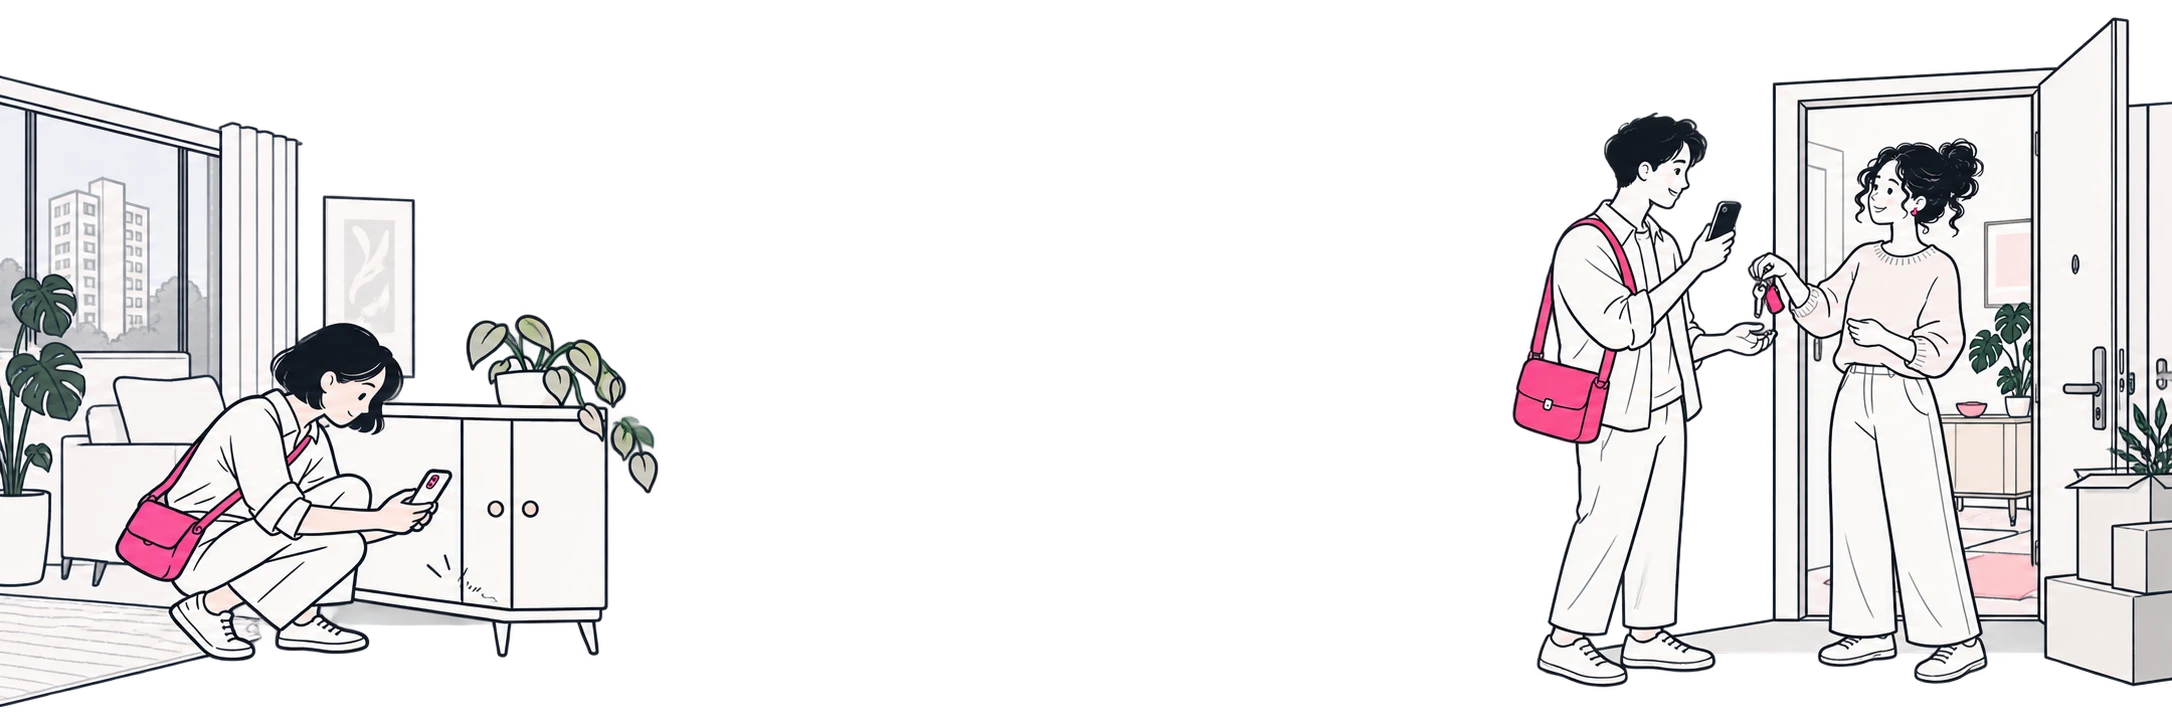
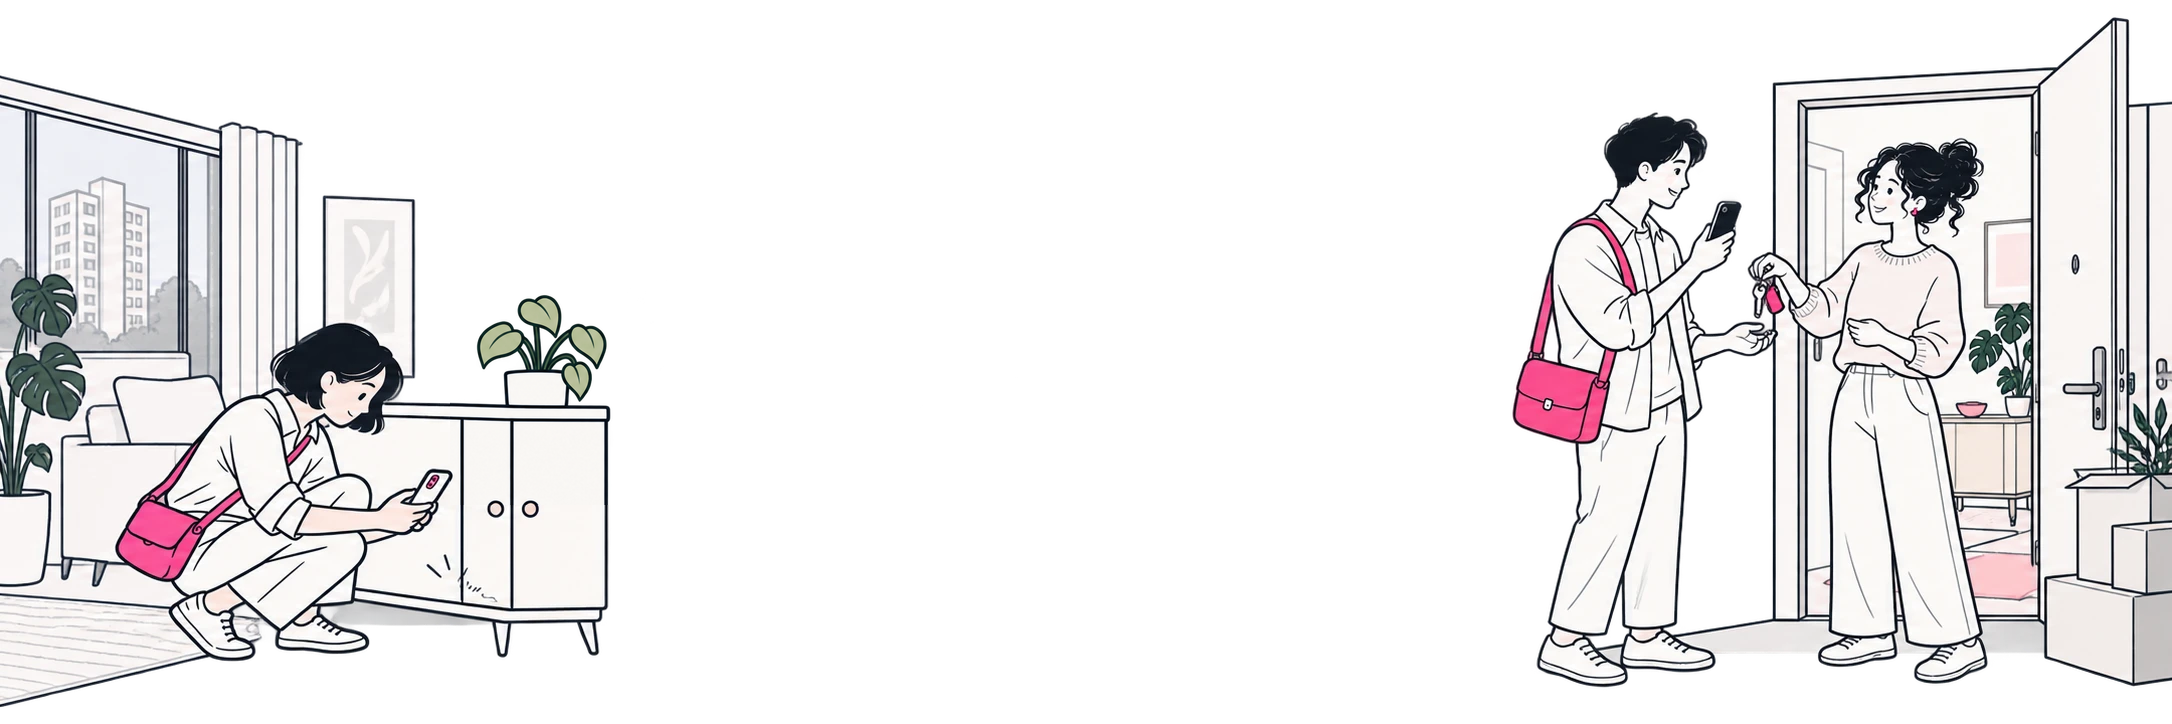
Fix hero plant and refine landing page navigation

Changed region(s): [[0.2159, 0.395, 0.3085, 0.6989]]

diff --git a/marketing/app/landing.module.css b/marketing/app/landing.module.css
@@ -1,10 +1,12 @@
 .page { --ink:#454541; --muted:#6a6a66; --pink:#db2777; --blush:#fff7fa; color:var(--ink); background:#fff; overflow:clip; }
 .page :global(*) { box-sizing:border-box; }
-.page :global(section[id]) { scroll-margin-top:32px; }
 .page :global(h1),.page :global(h2),.page :global(h3),.page :global(p) { margin:0; }
 .page :global(a) { text-decoration:none; }
 .skipLink { position:absolute; top:-80px; left:20px; padding:14px 20px; background:white; z-index:20; }
 .skipLink:focus { top:12px; }
+.stickyHeader { position:sticky; top:0; z-index:10; background:#fff; }
+.stickyHeader::after { content:""; position:absolute; left:0; right:0; bottom:0; height:1px; background:transparent; }
+.headerScrolled::after { background:#e9e5e8; }
 .header { position:relative; z-index:3; max-width:1800px; min-height:100px; padding:28px 42px; margin:auto; display:grid; grid-template-columns:1fr auto 1fr; align-items:center; gap:24px; }
 .wordmark { display:inline-flex; align-items:center; gap:10px; font-size:34px; font-weight:850; letter-spacing:-2.5px; line-height:1; color:var(--ink); }
 .brandMark { display:inline-grid; flex-shrink:0; place-items:center; width:34px; height:34px; border-radius:28%; background:#ec4899; }
@@ -102,6 +104,9 @@
 .footerTop nav { display:flex; flex-wrap:wrap; justify-content:flex-end; gap:12px 27px; align-items:flex-start; font-size:18px; padding-top:10px; }
 .footerTop nav a { padding:10px 0; }
 .footerBottom { display:flex; justify-content:space-between; gap:20px; padding-top:23px; border-top:1px solid #eee9ed; color:var(--muted); font-size:18px; line-height:1.7; }
+@media (min-width:901px) {
+  .heroActions .primaryButton { min-height:56px; padding-block:18px; }
+}
 @media (max-width:1000px) {
   .header { padding:23px 28px; } .navigation,.exploreNavigation { gap:18px; font-size:18px; } .hero { padding-top:50px; min-height:610px; }
   .exploreNavigation { display:none; } .header { display:flex; justify-content:space-between; }
@@ -115,7 +120,7 @@
   .hero { padding:30px 20px 340px; min-height:0; }
   .hero h1 { font-size:clamp(28px,8.4vw,48px); letter-spacing:-.8px; line-height:1.2; margin-top:0; }
   .heroDescription { font-size:20px; line-height:1.8; max-width:370px; margin-top:22px !important; } .desktopBreak { display:none; }
-  .heroActions { flex-direction:column; gap:6px; margin-top:24px; } .heroActions .primaryButton { padding:10px 20px; } .heroActions .textButton { min-height:42px; }
+  .heroActions { flex-direction:column; gap:6px; margin-top:24px; } .heroActions .primaryButton { padding:10px 20px; }
   .hero .freeNote { margin-top:6px !important; font-size:18px; }
   .heroArt { width:min(100%,320px); height:300px; overflow:hidden; bottom:10px; } .heroPanorama { width:100%; height:100%; object-fit:cover; object-position:left center; }
   .promiseStrip { padding:22px 16px; display:grid; grid-template-columns:1fr; gap:6px; font-size:18px; } .promiseStrip > span { padding:0; } .promiseStrip > span + span { border:0; }

diff --git a/marketing/app/page.tsx b/marketing/app/page.tsx
@@ -1,6 +1,7 @@
 import Image from 'next/image'
 import Link from 'next/link'
 import type { Metadata } from 'next'
+import { LandingHeader } from '../components/landing-header'
 import { LandingWalkthrough } from '../components/landing-walkthrough'
 import { FREE_ACTIVE_PROPERTIES } from '../../src/lib/plan-limits'
 import styles from './landing.module.css'
@@ -40,7 +41,7 @@ export default function LandingPage() {
     <div className={styles.page}>
       <script type="application/ld+json" dangerouslySetInnerHTML={{ __html: JSON.stringify(structuredData).replace(/</g, '\\u003c') }} />
       <a href="#main" className={styles.skipLink}>Skip to content</a>
-      <header className={styles.header}>
+      <LandingHeader>
         <nav className={styles.exploreNavigation} aria-label="Explore Kivilo">
           <a href="#how-it-works">How it works</a>
           <a href="#whole-tenancy">The whole tenancy</a>
@@ -51,7 +52,7 @@ export default function LandingPage() {
           <Link href="https://my.kivilo.app/login">Log in</Link>
           <Link href="https://my.kivilo.app/inspections" prefetch={false} className={styles.smallButton}>Start free</Link>
         </nav>
-      </header>
+      </LandingHeader>
       <main id="main">
         <section className={styles.hero} aria-labelledby="hero-title">
           <div className={styles.heroCopy}>
@@ -59,7 +60,6 @@ export default function LandingPage() {
             <p className={styles.heroDescription}>Take a photo. Mark what matters. Get everyone’s signatures.<br className={styles.desktopBreak} /> The little details, all in one shared record.</p>
             <div className={styles.heroActions}>
               <Link href="https://my.kivilo.app/inspections" prefetch={false} className={styles.primaryButton}>Start your first handover</Link>
-              <a href="#how-it-works" className={styles.textButton}>See how it works</a>
             </div>
             <p className={styles.freeNote}>{FREE_ACTIVE_PROPERTIES} active properties, free. No credit card needed.</p>
           </div>

diff --git a/marketing/app/globals.css b/marketing/app/globals.css
@@ -1,7 +1,10 @@
 * { box-sizing: border-box; }
+html { scroll-behavior: smooth; scroll-padding-top: 124px; }
 body { margin: 0; background: #fff; color: #25252a; font-family: -apple-system, BlinkMacSystemFont, "Segoe UI", Arial, sans-serif; font-size: 18px; line-height: 1.6; -webkit-font-smoothing: antialiased; }
 h1, h2, h3, h4, p { margin: 0; }
 a { color: inherit; text-decoration: none; }
 button { font: inherit; border: 0; background: transparent; cursor: pointer; }
 img { display: block; max-width: 100%; }
 :where(a, button, summary):focus-visible { outline: 3px solid #db2777; outline-offset: 4px; }
+@media (max-width: 700px) { html { scroll-padding-top: 108px; } }
+@media (prefers-reduced-motion: reduce) { html { scroll-behavior: auto; } }

diff --git a/marketing/components/landing-header.tsx b/marketing/components/landing-header.tsx
@@ -1,0 +1,21 @@
+'use client'
+
+import { useEffect, useState, type ReactNode } from 'react'
+import styles from '../app/landing.module.css'
+
+export function LandingHeader({ children }: { children: ReactNode }) {
+  const [scrolled, setScrolled] = useState(false)
+
+  useEffect(() => {
+    const updateScrolled = () => setScrolled(window.scrollY > 0)
+    updateScrolled()
+    window.addEventListener('scroll', updateScrolled, { passive: true })
+    return () => window.removeEventListener('scroll', updateScrolled)
+  }, [])
+
+  return (
+    <header className={`${styles.stickyHeader} ${scrolled ? styles.headerScrolled : ''}`}>
+      <div className={styles.header}>{children}</div>
+    </header>
+  )
+}

diff --git a/plans/work-status.md b/plans/work-status.md
@@ -13,7 +13,7 @@ smoke passed. The release preserves Properties, history/bin and the button syste
 
 The illustrated website is an independent static Next.js export in `marketing/`,
 published to Cloudflare Workers Static Assets at `https://kivilo.app`. Worker version:
-`01a566f5-b379-450b-96a3-f58ccf681ab1`. Build/deploy instructions: `marketing/README.md`.
+`5cf0ac8b-4d5f-450e-926c-8a7000175e44`. Build/deploy instructions: `marketing/README.md`.
 The working app stays on Vercel at `https://my.kivilo.app`; its root opens Properties.
 The previous app host, installed-client URLs and `KIVILO_APP_URL` remain unchanged.
 The `my` CNAME and Vercel certificate are verified: HTTPS login works and the root
@@ -66,6 +66,16 @@ preview uses the same sans-serif typography. Published on 24 October: live HTML 
 Production checks at 390/1440px confirm the 18px minimum across all three demo tabs,
 no horizontal overflow or browser errors, working drawing/original-photo controls
 and keyboard navigation. The app root reaches its HTTPS login page.
+
+The cabinet plant is repaired in the hero and social preview; only its local area
+changed in the panorama. The hero has one CTA, 56px high on desktop and 44px on
+narrower screens. Section links scroll smoothly (instantly with reduced motion)
+and clear the sticky white navigation, which gains a thin border after scrolling.
+Marketing build and strict lint pass. Browser checks at all six widths confirm
+no overflow or runtime errors, stable header height, correct anchor offsets and
+border visibility; reduced-motion behavior and the photo demo pass. Live HTML and
+11 script, style and artwork assets match the export, with production CTA and
+sticky-navigation checks passing.
 
 ## Tenancy agreements and supporting documents — 23 October
 

diff --git a/marketing/README.md b/marketing/README.md
@@ -32,6 +32,15 @@ Mobile shows the inspection crop below the copy and the happy handover above the
 closing CTA. There is no automatic animation; the photo demo responds to the
 visitor's own tool choices and drawing.
 
+The cabinet plant was repaired with built-in imagegen, then only its local area
+was composited into the panorama; the remaining visible pixels and transparency
+are unchanged. The edit brief is in `design/tenancy-plant-fix.prompt.txt`.
+
+The header stays visible while scrolling and gains a subtle bottom border away
+from the top. In-page links scroll smoothly with an offset for the header;
+reduced-motion preferences use an instant jump. The hero has one primary CTA,
+56px high above 900px and 44px on narrower screens.
+
 Typography uses the web app's system sans-serif stack. All page text, including
 demo labels, captions and footer links, is at least 18px; body copy is 20px.
 Narrow layouts wrap or stack instead of reducing type. Section headings stand on
